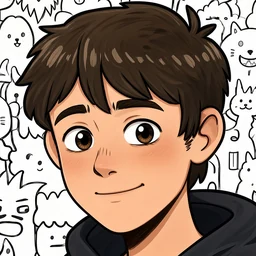
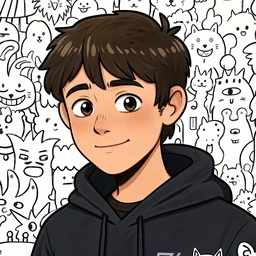
feat(site): 顶栏小头像裁到肩膀，人不再顶满整个圆
网站图标还是只裁头部，16 像素也认得出脸。

Claude-Session: https://claude.ai/code/session_01AtSjXM7NZFjW82AbeaRZdh

diff --git a/tools/portrait.py b/tools/portrait.py
@@ -4,8 +4,8 @@
 
 生成：
   src/assets/portrait.webp    首屏字符画用的：人物抠出来（透明底），线条加粗、肩膀和下面渐隐
-  src/assets/avatar.webp      顶栏和项目列表里的小头像：原图裁头部
-  public/favicon.png、public/apple-touch-icon.png
+  src/assets/avatar.webp      顶栏的小头像：原图裁到肩膀
+  public/favicon.png、public/apple-touch-icon.png  网站图标：原图裁头部
 
 要先装：pip install "rembg[cpu]" scipy pillow numpy（第一次跑会下载 176 MB 的抠图模型）。
 抠图为什么用 rembg 的 isnet-anime 模型见 README 的「字符画」。
@@ -51,9 +51,12 @@ im.thumbnail((720, 960), Image.LANCZOS)
 im.save(ROOT / 'src/assets/portrait.webp', quality=90, method=6)
 print('portrait.webp', im.size)
 
-# 小头像：裁头部
+# 顶栏的小头像：裁到肩膀，人不要顶满整个圆
+bust = src.crop((round(W * 0.08), 0, round(W * 0.86), round(H * 0.78)))
+bust.resize((256, 256), Image.LANCZOS).save(ROOT / 'src/assets/avatar.webp', quality=88, method=6)
+
+# 网站图标只有 16 到 64 像素，只裁头部，脸才认得出
 head = src.crop((round(W * 0.163), round(H * 0.028), round(W * 0.717), round(H * 0.582)))
-head.resize((256, 256), Image.LANCZOS).save(ROOT / 'src/assets/avatar.webp', quality=88, method=6)
 head.resize((180, 180), Image.LANCZOS).save(ROOT / 'public/apple-touch-icon.png', optimize=True)
 head.resize((64, 64), Image.LANCZOS).save(ROOT / 'public/favicon.png', optimize=True)
 print('avatar.webp, favicon.png, apple-touch-icon.png')
